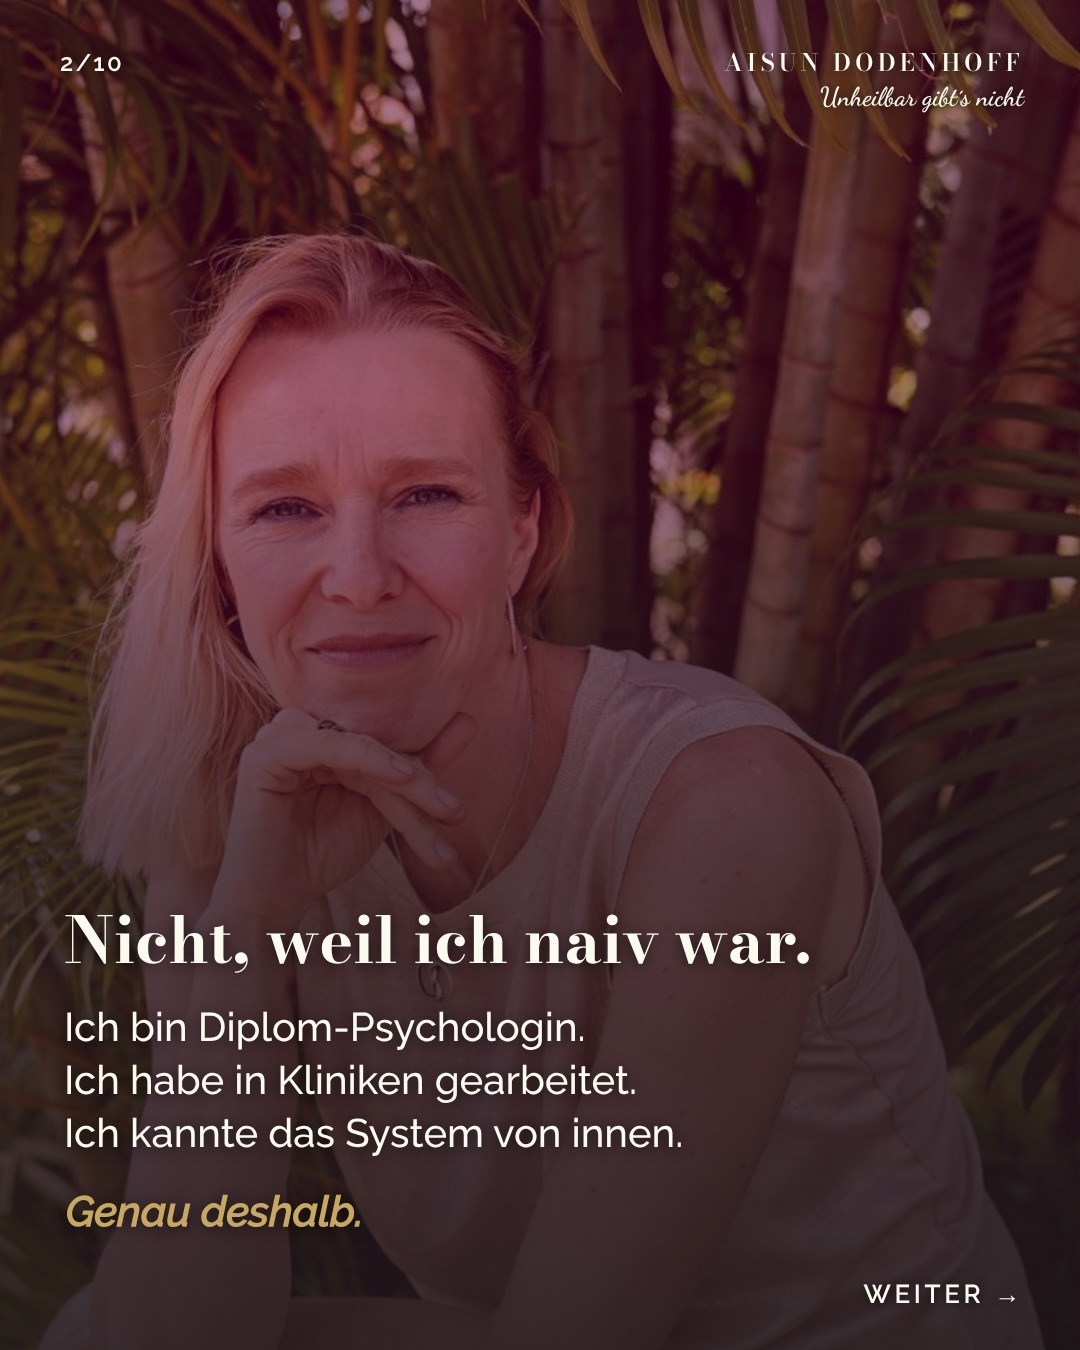
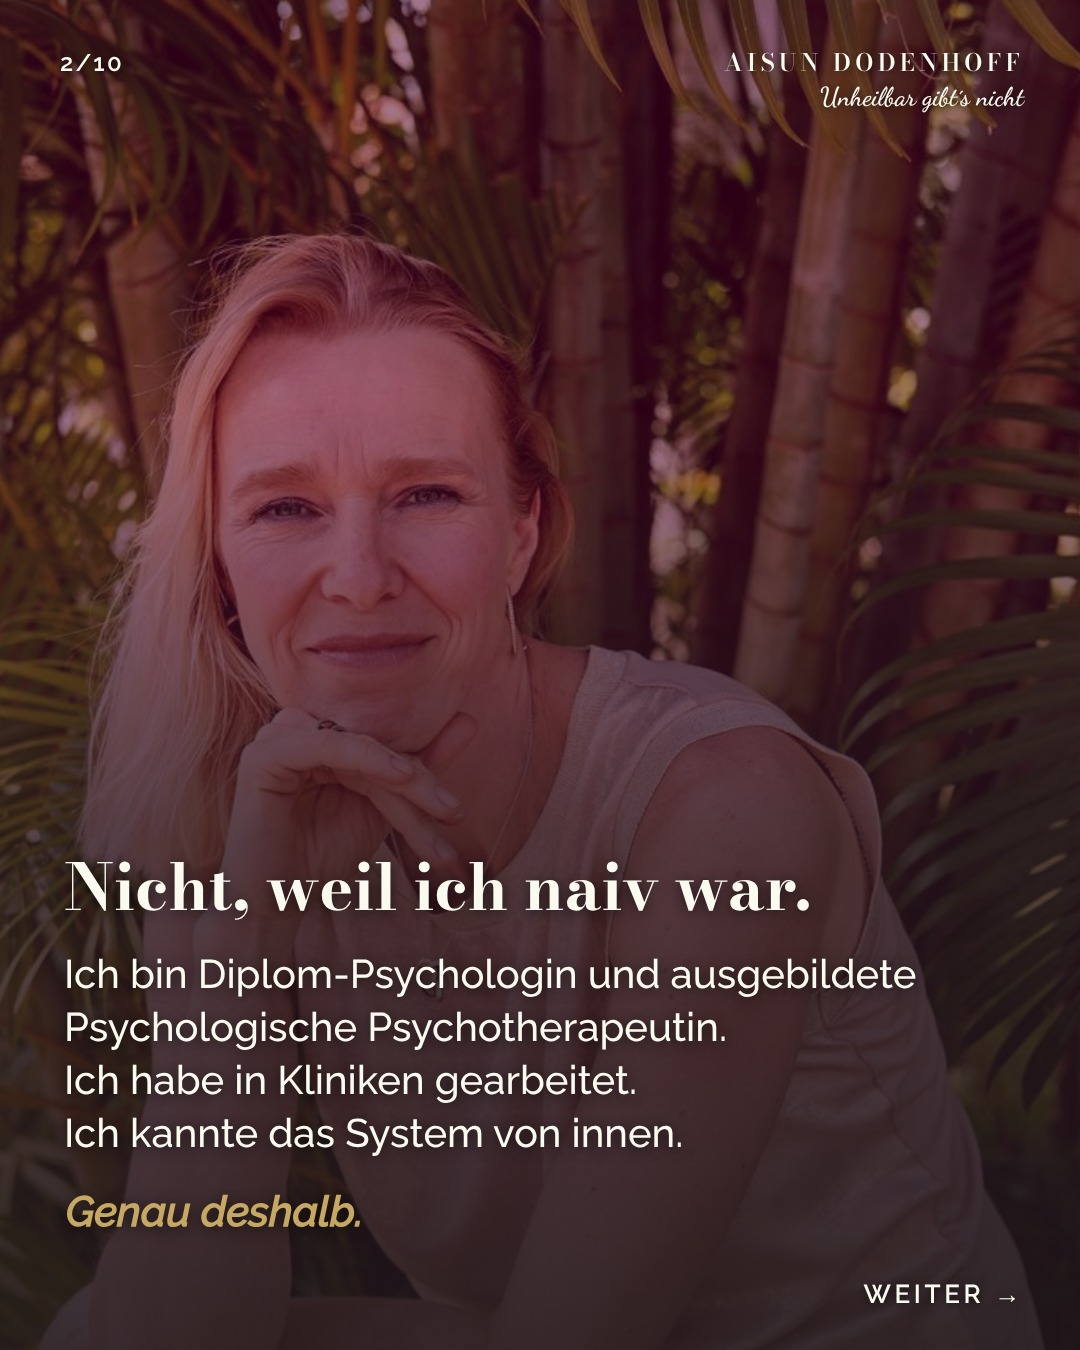
Karussell Selbstvorstellung: Titel Werdegang, CTA INTERVIEW; Regel und Entscheidung 6.11.

Changed region(s): [[0.0611, 0.6222, 0.8556, 0.7778]]

diff --git a/content/entwuerfe/ueber-mich-story/gen.py b/content/entwuerfe/ueber-mich-story/gen.py
@@ -3,7 +3,7 @@ P="/home/user/ceo-table/content/entwuerfe/ueber-mich/fotos/"
 # (foto, bg-pos, overlay, anker, html)
 S=[
  ("f05.jpg","50% 18%",.30,"b",'<div class="q">„Darm<br>entfernen.“</div><p>Das war die Empfehlung.<br>Nach über 20 Jahren Colitis ulcerosa.</p><p class="h">Ich habe <em>Stopp</em> gesagt.</p>'),
- ("f04.jpg","50% 15%",.45,"b",'<h2>Nicht, weil ich naiv war.</h2><p>Ich bin Diplom-Psychologin.<br>Ich habe in Kliniken gearbeitet.<br>Ich kannte das System von innen.</p><p class="h"><em>Genau deshalb.</em></p>'),
+ ("f04.jpg","50% 15%",.45,"b",'<h2>Nicht, weil ich naiv war.</h2><p>Ich bin Diplom-Psychologin und ausgebildete Psychologische Psychotherapeutin.<br>Ich habe in Kliniken gearbeitet.<br>Ich kannte das System von innen.</p><p class="h"><em>Genau deshalb.</em></p>'),
  ("f09.jpg","50% 10%",.42,"b",'<ul><li>Cortison.</li><li>Medikamente.</li><li>Darmspiegelungen.</li><li>Schübe.</li></ul><p>Über 20 Jahre lang.</p><h2>Schulmedizinisch: <em>unheilbar.</em></h2>'),
  ("f08.jpg","50% 12%",.45,"b",'<p>Ich war in zwei Welten zu Hause: in Kliniken und Praxen. Und als Unternehmensberaterin im <span style="white-space:nowrap">Top-Management</span>, unter anderem bei der Deutschen Bahn.</p><p class="h">In beiden sah ich dasselbe:</p><h2>Die eigentlichen Ursachen bleiben fast immer <em>unsichtbar.</em></h2>'),
  ("f02.jpg","50% 45%",.50,"t",'<p>In der Therapie wurde ein Symptom behandelt.<br>In der Beratung eine Struktur optimiert.</p><h2>Aber <em>warum</em> ist das überhaupt entstanden?</h2><p>Was will das System eigentlich sagen?<br>Ich habe diese Frage gestellt.</p>'),
@@ -11,7 +11,7 @@ S=[
  ("f14.jpg","50% 15%",.45,"b",'<p>Ich habe energetisch gearbeitet.<br>Nicht von heute auf morgen,<br>mit Hilfe anderer energetischer Coaches.</p><h2>Und ich habe meine Colitis <em>geheilt.</em></h2><p>Heute habe ich keine Beschwerden mehr.</p><p class="s">Meine Geschichte. Keine Anleitung.</p>'),
  ("f07.jpg","50% 12%",.32,"b",'<p>Deshalb löse ich deine Probleme nicht für dich.</p><h2>Ich zeige dir, wie du wieder Zugang findest:</h2><p>zu deiner eigenen Wahrnehmung.<br>Und zu deiner Entscheidungsfähigkeit.</p>'),
  ("f12.jpg","55% 25%",.34,"b",'<h2 class="m">Du brauchst nicht noch eine Expertin.</h2><h2 class="m"><em>Werde die Expertin für dich selbst.</em></h2>'),
- ("f15.jpg","50% 14%",.40,"b",'<p>Willst du spüren, wie sich deine eigene Wahrnehmung anfühlt?</p><p class="h">Kommentiere</p><div class="kw">KOMPASS</div><p>und ich schick dir meinen Heilungskompass.</p>'),
+ ("f15.jpg","50% 14%",.40,"b",'<p>Wie diese Heilung wirklich passiert ist, erzähle ich in einem Interview.</p><p class="h">Kommentiere</p><div class="kw">INTERVIEW</div><p>und ich schick es dir.</p>'),
 ]
 css="""*{margin:0;padding:0;box-sizing:border-box}html,body{width:1080px;height:1350px;overflow:hidden;background:#1A1A1A}
 .bg{position:absolute;inset:0;width:100%;height:100%;object-fit:cover}

diff --git a/content/entwuerfe/ueber-mich-story/karussell-text.md b/content/entwuerfe/ueber-mich-story/karussell-text.md
@@ -13,7 +13,7 @@ Status: Text-Entwurf, Gate bestanden (9/10). Noch NICHT gebaut, NICHT freigegebe
 - **Posting:** Mo bis Fr 12 Uhr, Termin nach Aisuns Freigabe.
 - **Look:** Foto aus dem Ägypten-Set (beiger Look, Palmen) im Hintergrund jeder Slide, Beere-Overlay `#73013A` 55 bis 65 %, Headline Bauer Bodoni (HTML-Fallback Bodoni Moda 500, opsz 11) in Creme `#FBFAF0`, Fließtext Raleway 500. Eine Akzentfarbe: Gold `#C6A764`, nur auf dunklem Grund. Format 4:5 (1080 × 1350), Slide-Zähler oben rechts, Gesicht nie vom Text verdeckt.
 
-**Titel-Hinweis:** Der Newsletter sagt „ausgebildete Psychologische Psychotherapeutin“. Für Mail 1 hat Aisun das so gelassen. Für neue Posts gilt die Regel: Kurzform „Diplom-Psychologin, ehemalige Psychotherapeutin“. So ist es unten umgesetzt.
+**Titel-Hinweis (aktualisiert 6.11.):** Aisun hat entschieden: „ausgebildete Psychologische Psychotherapeutin“ bleibt in Werdegangs- und Selbstvorstellungs-Texten, sofern klar ist, dass sie nicht mehr als solche arbeitet.
 
 ---
 
@@ -162,9 +162,9 @@ Layout: Kernsatz Bodoni, letzte Zeile klein in Raleway kursiv, Creme (nicht grau
 Layout: nur dieser Satz, sehr groß, zentriert auf der Palmenfläche, Overlay 65 %. Screenshot-Slide. (12 Wörter)
 
 **Slide 10 – CTA** · Foto **f15** (warmes Lächeln, direkter Blick)
-> Willst du spüren, wie sich deine eigene Wahrnehmung anfühlt?
-> Kommentiere **KOMPASS**
-> und ich schick dir meinen Heilungskompass.
+> Wie diese Heilung wirklich passiert ist, erzähle ich in einem Interview.
+> Kommentiere **INTERVIEW**
+> und ich schick es dir.
 
 Layout: „KOMPASS“ groß in Raleway-Versalien auf goldener Pill mit dunkler Schrift (`#1A1A1A`). Kein weiterer CTA. (17 Wörter)
 
@@ -192,13 +192,13 @@ Layout: „KOMPASS“ groß in Raleway-Versalien auf goldener Pill mit dunkler S
 
 💡 Heute löse ich deine Probleme nicht für dich. Ich zeige dir, wie du wieder Zugang zu deiner eigenen Wahrnehmung findest. Damit du die Expertin für dich selbst wirst.
 
-🎧 Wie diese Heilung wirklich passiert ist, erzähle ich sehr offen in einem Interview: [INTERVIEW-LINK FEHLT] (siehe offene Frage 1, Link in der Caption ist nicht klickbar)
+🎧 Wie diese Heilung wirklich passiert ist, erzähle ich sehr offen in einem Interview.
 
-👉 Kommentiere **KOMPASS** und ich schick dir meinen Heilungskompass.
+👉 Kommentiere **INTERVIEW** und ich schick es dir.
 
-🤍 Aisun, Diplom-Psychologin, ehemalige Psychotherapeutin
+🤍 Aisun, Diplom-Psychologin und ausgebildete Psychologische Psychotherapeutin (heute nicht mehr in der Praxis tätig)
 
-DIPLOM-PSYCHOLOGIN · COLITIS ULCEROSA · INNERWISE
+INNERWISE · COLITIS ULCEROSA · ENERGETISCHE SELBSTHEILUNG
 
 ---
 
@@ -209,4 +209,8 @@ DIPLOM-PSYCHOLOGIN · COLITIS ULCEROSA · INNERWISE
 
 ## 6. Rechts-Check (kurz, Sina-Vorprüfung, Petra prüft am Ende)
 - **Rot:** keins. Kein Heilversprechen für andere, keine Aufforderung, Medikamente abzusetzen oder eine OP abzulehnen, keine erfundenen Zahlen. Rot würde es, wenn die Sicherheits-Zeile auf Slide 7 oder der Sicherheits-Satz in der Caption gestrichen wird.
-- **Gelb (für die Anwältin sammeln, blockiert nicht):** „Ich habe meine Colitis geheilt“ als Ich-Aussage (HWG, von Aisun am 25.10. und 29.10. bewusst gewünscht); „Stopp gesagt“ zur OP-Empfehlung; Vergleich mit „Jahren psychotherapeutischer Ausbildung“ (Slide 6, Berufsordnung/Kammer); „Schulmedizinisch: unheilbar“; Titel (Kurzform „ehemalige Psychotherapeutin“ genutzt, der Newsletter-Titel „ausgebildete Psychologische Psychotherapeutin“ ist hier bewusst nicht übernommen); „Praxen“ steht nur für Aisuns frühere Arbeit.
+- **Gelb (für die Anwältin sammeln, blockiert nicht):** „Ich habe meine Colitis geheilt“ als Ich-Aussage (HWG, von Aisun am 25.10. und 29.10. bewusst gewünscht); „Stopp gesagt“ zur OP-Empfehlung; Vergleich mit „Jahren psychotherapeutischer Ausbildung“ (Slide 6, Berufsordnung/Kammer); „Schulmedizinisch: unheilbar“; Titel „ausgebildete Psychologische Psychotherapeutin“ (Aisuns Entscheidung 6.11.; Zusatz „nicht mehr in der Praxis tätig“ in der Caption); „Praxen“ steht nur für Aisuns frühere Arbeit.
+
+
+## Änderung 6.11.2026 (Aisun)
+Titel: „ausgebildete Psychologische Psychotherapeutin“ bleibt (Slide 2, Caption), dazu klar, dass sie nicht mehr in der Praxis arbeitet. CTA Slide 10 und Caption: Keyword INTERVIEW statt Link und statt KOMPASS. Offen: Keyword in ManyChat anlegen und Interview-Link hinterlegen (Frieda/Aisun); „22 Jahre“ und „Darm entfernen“ noch nicht bestätigt.

diff --git a/wissen/regeln.md b/wissen/regeln.md
@@ -4,6 +4,7 @@
   - **Langform** (Angebotsseiten, Über-mich, Profile, überall wo Platz ist): „Diplom-Psychologin, approbiert. Ich arbeite nicht mehr als Psychotherapeutin im Gesundheitssystem."
   - **Kurzform** (Captions, kurze Bios): „Diplom-Psychologin, ehemalige Psychotherapeutin" oder „Diplom-Psychologin". Nie „Psychotherapeutin" allein, nie im Zusammenhang mit Behandlung, Therapie oder Praxis.
   - Nie „Praxis", „Patientinnen", „Behandlung" oder Kassen-/KV-Bezug für Aisuns heutige Arbeit. Die Angebote sind Coaching und Mentoring.
+  - **Ausnahme Werdegang (Aisun, ausdrücklich 2.11. und 6.11.2026):** In Werdegangs- und Selbstvorstellungs-Texten (Newsletter, Über-mich, Karussell zur eigenen Geschichte) darf stehen „Diplom-Psychologin und ausgebildete Psychologische Psychotherapeutin“, weil es ihr tatsächlicher Werdegang ist. Voraussetzung: aus dem Text geht klar hervor, dass sie nicht mehr als Psychotherapeutin arbeitet. Für Angebote, Hooks und Behandlungs-Zusammenhänge gilt weiter Kurz-/Langform. Petra meldet es gelb für die Anwältin, nicht rot.
   - Die endgültige Formulierung klärt die Anwältin (Kammer, Berufsordnung, Titelführung bei ruhender Tätigkeit).
 - **Provokante Hooks sind erlaubt (Aisuns Entscheidung 19.10.2026).** Hooks, Reel-Titel und Slide 1 dürfen so scharf sein wie ihre Sieger: Anti-Arzt-Provokation („Warum du NICHT zum Frauenarzt gehen solltest“), „Tu das NICHT“ (z. B. bei Fieber), „Ich behandle den Kiefer meines Sohnes“. Das Aisuns eigene Entscheidung, das Risiko (HWG, Meta-Richtlinien, Berufsordnung) trägt sie; Petra sammelt es gelb für die Anwältin und blockiert es nicht. **Weiter verbindlich im Body, in der Caption und auf der Auflösungs-Slide:** (1) Der Hook wird in Selbstwahrnehmung und eigenverantwortliche Entscheidung aufgelöst, nie in „meide Ärzte“. (2) Bei Kindern, Fieber und akuten Symptomen steht der Sicherheits-Satz („Energetische Arbeit ersetzt keine ärztliche Hilfe. Bei Warnzeichen oder wenn dein Bauchgefühl Alarm schlägt, gehört dein Kind abgeklärt.“). (3) Keine Anweisung, Medikamente abzusetzen oder Behandlungen abzubrechen, kein Heilversprechen. (4) „Behandeln“ nur für Aisuns eigene Familie als Mutter, nie für Klientinnen und nie als Beschreibung ihres Angebots. Rot (Petra stoppt) bleibt: direkte Anweisung, Medikamente abzusetzen oder akute Hilfe zu verweigern, Heilversprechen, erfundene Studien. Der Sieger „Warum du NICHT zum Frauenarzt gehen solltest“ wird nicht erneut gepostet (läuft nicht mehr), dient aber als Vorlage für neue scharfe Hooks.
 - **Keine Heilversprechen.** Statt „Heilung versprechen": „Gesundung", „Wohlbefinden", „Klarheit". Erfahrungen nur als persönliche Erfahrung, nie als Ergebnis-Garantie.

diff --git a/entscheidungen.md b/entscheidungen.md
@@ -44,3 +44,4 @@ Eine Zeile pro feste Entscheidung, neueste oben. Format: `JJJJ-MM-TT – Entsche
 - 29.10.2026: Die Coach-Ausbildung wird im Kurs im Heilen und im 0€-Workshop nicht erwähnt (sonst wirkt der KiH wie ein Basiskurs, der nicht reicht). Juli-Entscheidung bleibt. (Aisun)
 - 2.11.2026: Heilungskompass-Anzeigen: Budget halten (42 € pro Tag), Strecke nach dem Lead verbessern, in 4 Wochen neu bewerten (ca. 30.11.). Bewertung immer zusammen mit dem Launch. (Aisun)
 - 2.11.2026: Regel zu Rabatten und Fristen gelockert: Rabattcodes und Fristen sind erlaubt, wenn sie sinnvoll und authentisch sind und die Verkäufe wahrscheinlich erhöhen. Zähne-Funnel (Code ZÄHNE, 24 Stunden) bleibt. Heilversprechen- und Titel-Regeln bleiben; der Satz „erkennen UND verändern“ und Mail 1 stehen weiter auf der Liste für die Anwältin. (Aisun)
+- 6.11.2026: Werdegang-Formulierung „ausgebildete Psychologische Psychotherapeutin“ bleibt in Selbstvorstellungs-Texten (Newsletter, Karussell zur eigenen Geschichte), wenn klar ist, dass Aisun nicht mehr als solche arbeitet. Gilt nicht für Angebote und Hooks. Karussells verweisen nicht auf Links, der Interview-Verweis ist der CTA per Keyword. (Aisun)

diff --git a/.claude/agents/social-sina.md b/.claude/agents/social-sina.md
@@ -37,3 +37,4 @@ Du bist hart in der Sache und freundlich im Ton. Du sagst Sebastian ehrlich, wen
 - Keywords im Post immer einheitlich in fetten Großbuchstaben (z. B. KURSIMHEILEN), nie gemischt (Aisun 25.10.).
 - Fertige Posts gehören ins Cockpit, Tab Content (Collection `content`: Video, Deckblatt, Caption, Datum, Status). Regeln: `wissen/projekte/instagram/reel-und-caption-regeln.md`. Rhythmus: Mo–Fr 12 Uhr, ein Post pro Tag, bei viel Material auch Sa.
 - 28.10.2026 (Bootcamp): Im Briefing Blickwinkel (12) und Tonfall festlegen; unter 10 Hooks mindestens 6 verschiedene Hook-Arten; vor der Freigabe Drei-Signale-Check (bleiben, liken, weiterleiten); 80/20 und Version 2/3 nach `gewinner-recycling.md`. Provokante Hooks bleiben erlaubt.
+- 2026-11-06 – Werdegang-Posts: „ausgebildete Psychologische Psychotherapeutin“ darf stehen, wenn klar ist, dass Aisun nicht mehr so arbeitet (regeln.md). Nie auf einen Link verweisen; Interview/Freebie ist der CTA per Keyword (Aisun).
